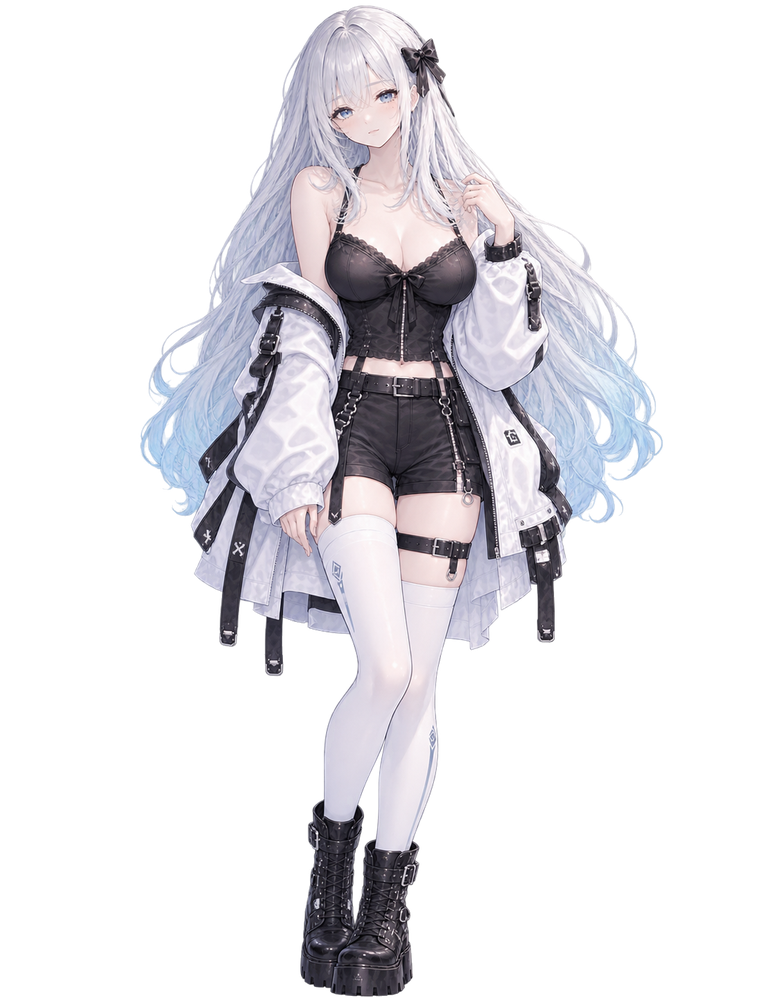
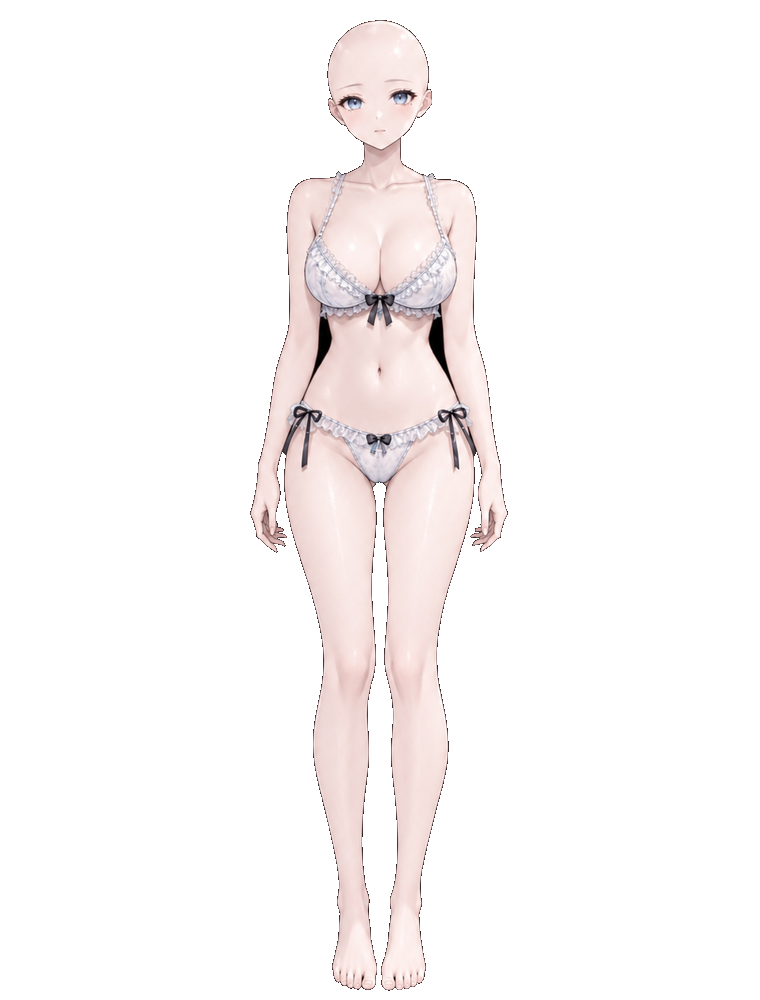
docs(v1.0): 路线图补充 UX-01~04 核心交互规划与资产整理
- 补充 UX-01 API 配置零门槛、UX-02 配件不齐自适应搭配、UX-03 独立可拖拽浮窗、UX-04 气泡对话流与档案解耦；
- 同步更新 1.0 演进树；
- 整理立绘切片资产。

Changed region(s): [[0.1816, 0.0, 0.8776, 1.0]]

diff --git a/docs/ROADMAP-AND-PUBLIC-RELEASE-PLAN.md b/docs/ROADMAP-AND-PUBLIC-RELEASE-PLAN.md
@@ -279,6 +279,54 @@ v1.0 的主要目标不是继续扩张主体底层实验，而是：
 
 v1.0 会进行一次真正的**实际操作与实机体验验证**。
 
+### 6.1 API 设置门槛清零与智能服务商体验 (UX-01)
+
+在 v1.0 的设置与用户操作流程打磨中，重点消灭第三方 API 配置的技术门槛：
+
+- **痛点与背景**：
+  普通用户大多不具备 `baseURL`（端点网络地址）的技术概念；让玩家去开放平台控制台查找 `https://api.xiaomimimo.com/v1` 等端点构成了极高上手门槛。
+- **两步走方案（服务商预设卡片 / 下拉菜单）**：
+  在设置面板提供清晰的官方与主流服务商选项（如 DeepSeek 官方、小米 MiMo 按量付费接口、小米 MiMo 订阅套餐集群 Token Plan、以及高级自定义端点）。选中服务商后，系统在后台自动匹配标准端点，用户只需粘贴 Key 即可一键连通。
+- **本地智能前缀识别（零隐私泄漏）**：
+  利用纯本地前端逻辑解析用户粘贴的 Key 前缀特征（如 `sk-`、`tp-`、`ttp-` 等），自动建议或适配对应的集群端点，消灭模式混淆。所有识别逻辑均严格在用户本地内存执行，不将凭证上传至任何第三方服务器。
+
+### 6.2 配件不齐时的智能自适应成套搭配 (UX-02)
+
+在 v1.0 的立绘渲染与换装体验打磨中，彻底消灭配件缺失或单品替换造成的视觉违和：
+
+- **痛点与背景**：
+  现有渲染层做简单的分层叠放；当用户在换装界面中只选配了单件外套（如落肩白风衣），而下装、鞋袜尚未选择或特定槽位切片资产不齐时，若机械地直接渲染，会导致“下身单薄/真空、风格割裂”等严重视觉违和。
+- **以用户选择为锚点的智能自适应搭配**：
+  当用户选定某件衣物但整套配件不齐时，换装系统不进行粗暴回退，而是**根据用户的选择及其所代表的风格倾向，自动适配补齐缺失的基础槽位**（如自动匹配同风格色系的短裤/下装、协调内搭与适配合适的鞋袜），呈现一套体面、协调的完整穿搭。
+- **与 v0.9.9 主体自主选择的界限**：
+  - **v1.0 (UX-02)**：解决“用户主动选择服装配件不齐时，系统如何自适应补齐成套，避免穿搭破损”的前端交互与搭配规则问题；
+  - **v0.9.9 (Subject-01)**：解决“初澜主体自身如何根据内部特质喜好值（`quiet_preference`、`vitality`、`attachment_need` 等）主动挑选、提议并自决穿着”的数字生命动力学闭环。
+
+### 6.3 独立浮动与可自由拖拽的交互视窗 (UX-03)
+
+在 v1.0 的桌面空间交互体验中，彻底打破交互界面与桌宠主体的空间死锁：
+
+- **痛点与背景**：
+  现有界面的所有输入栏、提示与弹窗均与主桌宠视窗死锁绑定或钉死在屏幕下边缘；当桌宠停靠在特定角落或屏幕边缘漫步时，界面无法自由拖动、调整位置，极易受到桌面任务栏遮挡或脱离用户视线焦点。
+- **现代化自由浮动架构**：
+  - 对话交互框、历史档案库、设置面板实现**轻量级独立浮动视窗（Floating Detached Sub-Window）**；
+  - 支持顶部标题栏抓取、任意位置自由拖拽摆放、记忆用户摆放位置（记住 X/Y 坐标），用户可根据习惯将其拖拽至屏幕中央、副屏或舒适的工作区域。
+
+### 6.4 气泡式即时对话流视窗与“即时对话 vs 历史档案”职责解耦 (UX-04)
+
+在 v1.0 的人机对话体验中，彻底消灭“只有输入框无聊天流”以及被迫翻阅原始日志的交互断层：
+
+- **痛点与背景**：
+  现有对话交互极度简陋：仅有一个单行输入框，且回复仅靠头顶气泡短暂闪烁；用户无法直观查阅当轮与前几轮的对话上下文，必须繁琐地右键点击“记录”呼出一个纯文本日志面板来翻看。不仅交互割裂，而且混淆了“即时对话流”与“历史归档”的职责定位。
+- **核心重构方案**：
+  1. **现代气泡即时对话流 UI（Chat Bubble Stream）**：
+     - 点开“对话”时，展开一个标准的、沉浸式气泡聊天窗口；
+     - 整合输入区与即时消息流，完整呈现当轮与近期对话的气泡流（双方头像、流式文字打字动效、时间戳、状态标记与换装交互小部件）；
+     - 支持触控/鼠标平滑上下滚动、一键定位最新回复，在当前视窗内即可自然、连续地完成双向交互。
+  2. **“即时对话视窗”与“历史档案库”严格解耦**：
+     - **即时对话框（Chat Window）**：专注于**当下活跃轮次的即时双向流式交流**与近期上下文预览；
+     - **记录 / 档案库（History Archive / Umwelt Log）**：专注于**长程生命记忆回溯**，提供时间轴检索、历次窗口小结卡片、创世记录查阅、特质演化图谱与经历检索，还原其作为“数字生命经历档案”的庄重研究属性。
+
 也就是说：
 
 > **v0.9.9 主要回答“初澜这个主体系统本身还缺什么、哪里不对、怎样更接近数字生命实验目标”；**
@@ -503,14 +551,17 @@ v0.9.9
     ├── 全面审查
     ├── Bug 修复
     ├── 独立复审
-    ├── 小范围实验优化
+    ├── 小范围实验优化（含主体特质喜好与自主换装闭环 Subject-01）
     └── 数字生命 / 哲学生命方向讨论
          │
          ▼
 v1.0
 │
 └── UI / 交互 / 实操
-    ├── UI 整理
+    ├── UI 整理与 API 设置体验清零 (UX-01)
+    ├── 配件不齐时的智能自适应成套搭配 (UX-02)
+    ├── 独立浮动与可自由拖拽的交互视窗 (UX-03)
+    ├── 气泡式即时对话流视窗与历史档案解耦 (UX-04)
     ├── Interaction
     ├── 主体状态与数据可视化
     ├── 实机使用验证
